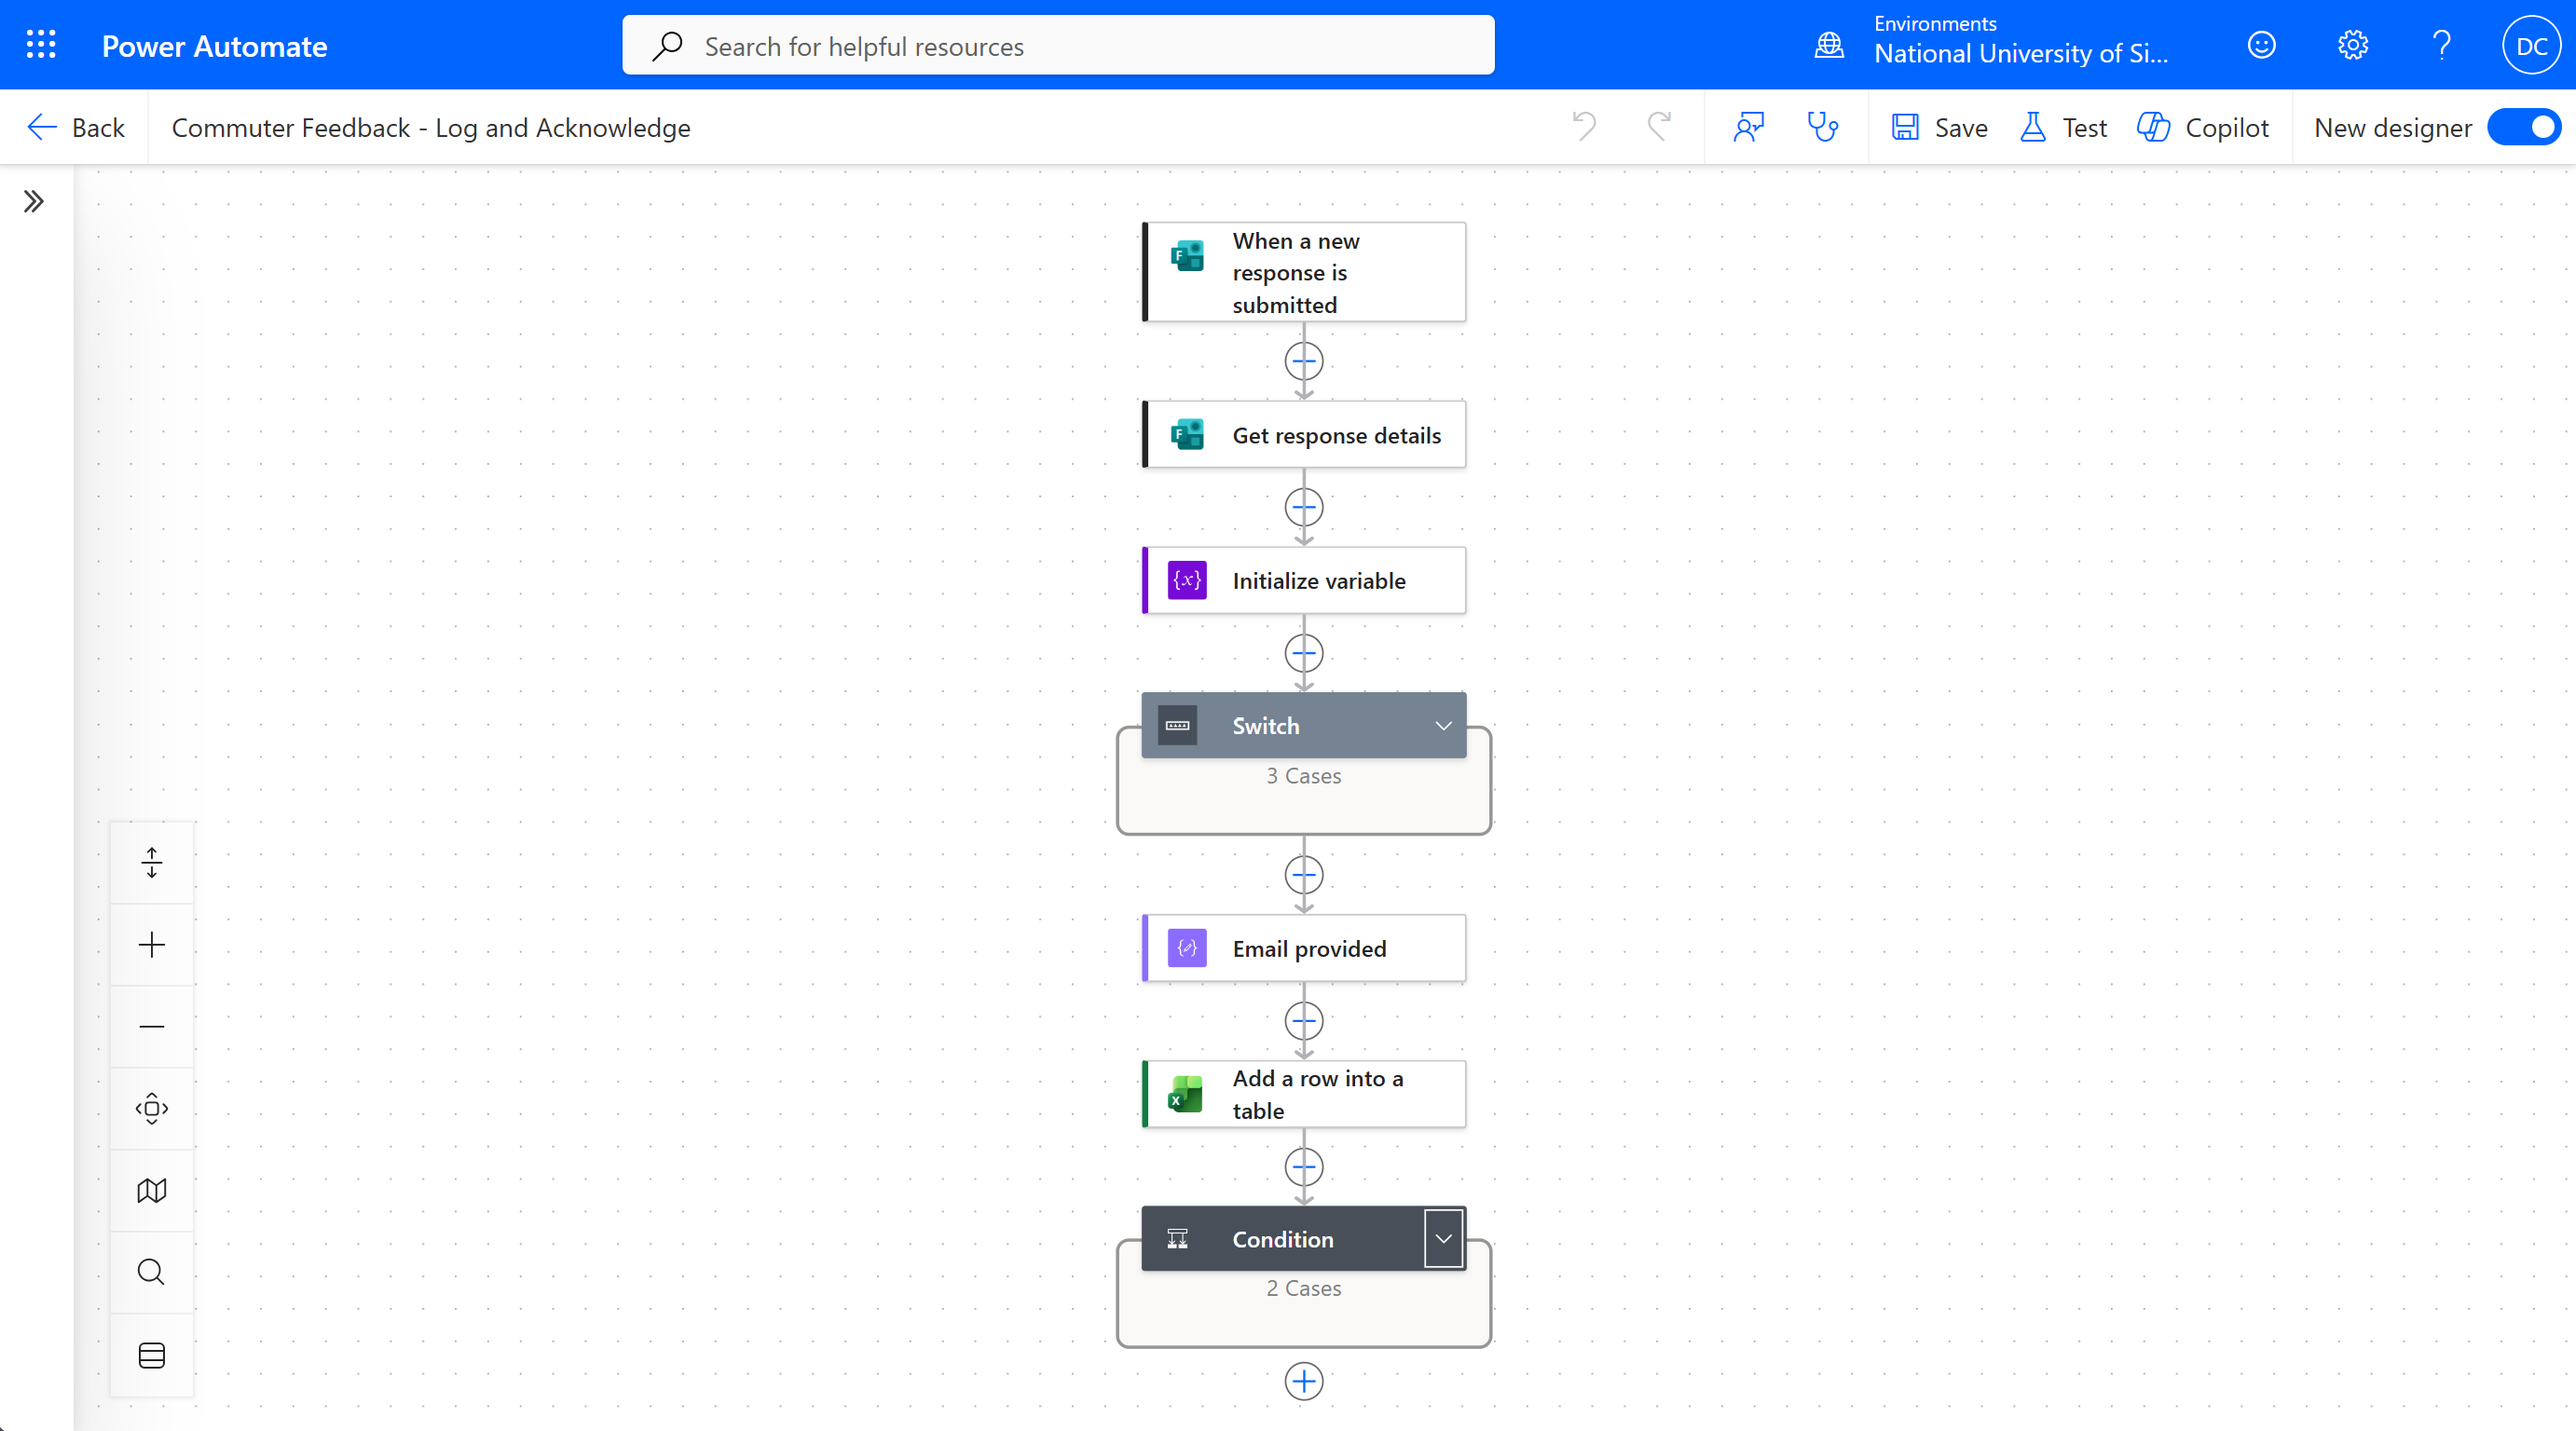
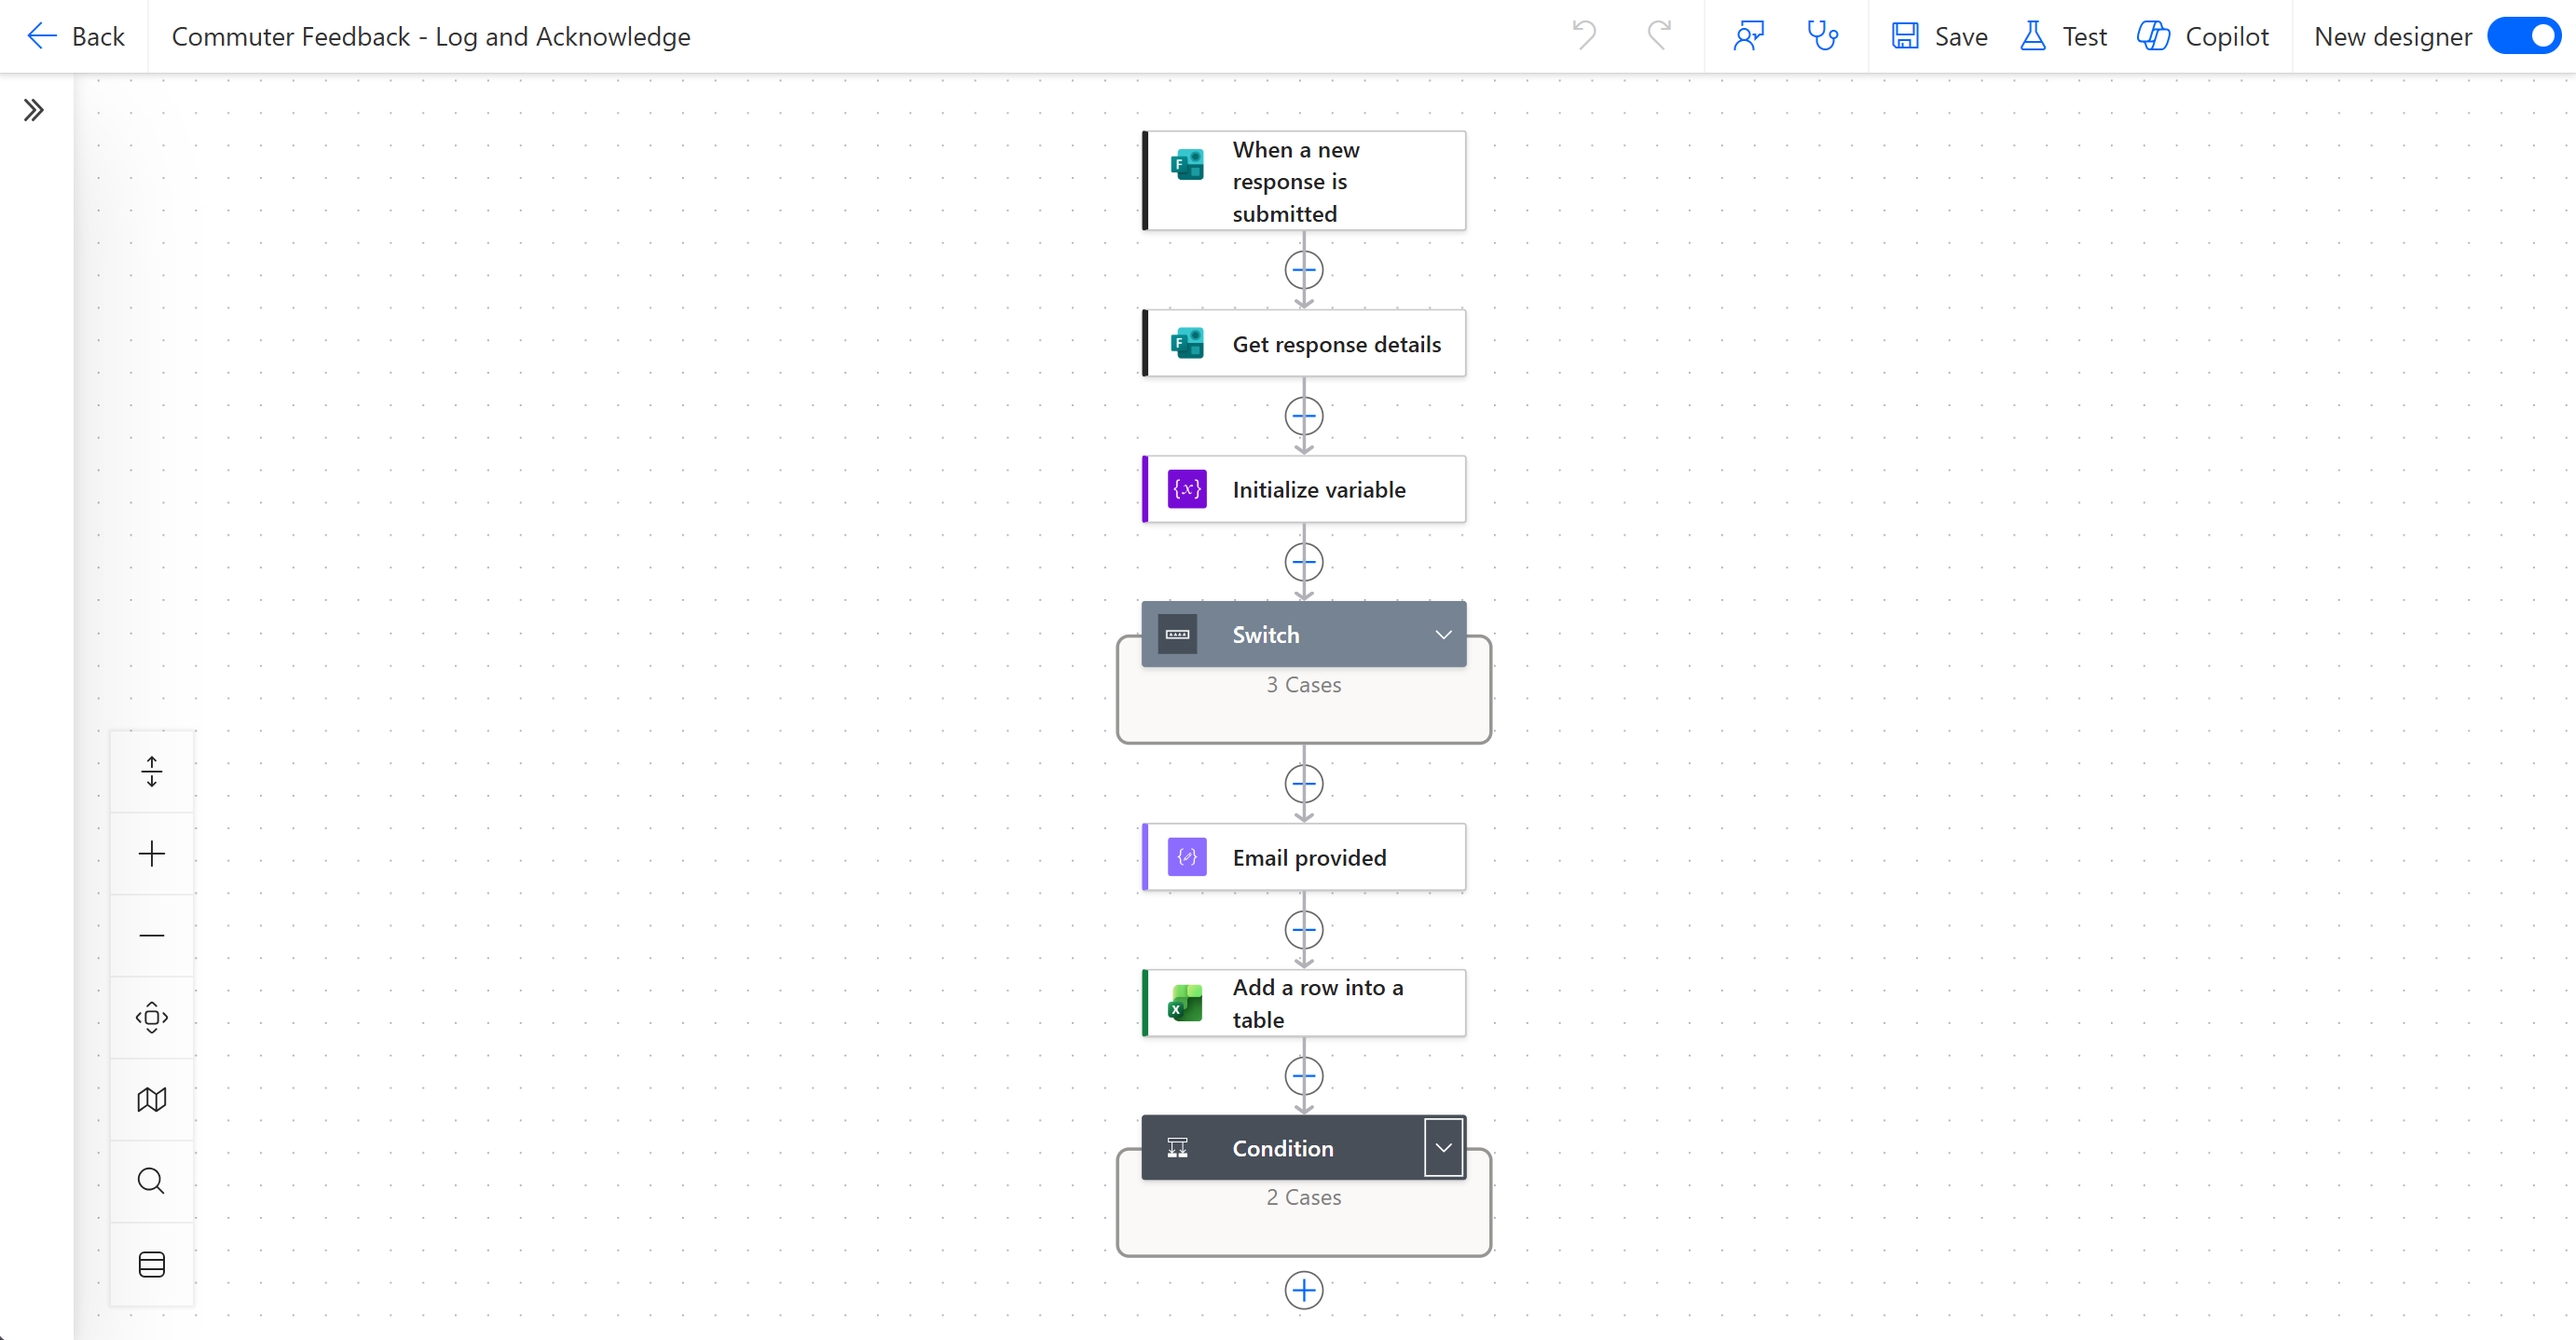
Crop nav bar from flow screenshot
Claude-Session: https://claude.ai/code/session_019f36wQYpzVr1fEChzd4kSD

Changed region(s): [[0.4356, 0.0918, 0.5912, 0.9791], [0.0, 0.0, 1.0, 0.1224]]

diff --git a/docs/screenshots/README.md b/docs/screenshots/README.md
@@ -20,8 +20,9 @@ Each image was checked before it was added:
 
 What is visible:
 
-- the account initials "DC" in the top-right corner (images 01, 02 and 04)
-- in image 02, the Power Automate environment name, which shows the organisation ("National University of Si...")
+- the account initials "DC" in the top-right corner (images 01 and 04)
+
+Image 02 was cropped to remove the top navigation bar, which showed the environment name and the account initials. The full flow diagram is kept.
 
 ## Replacing a screenshot
 
